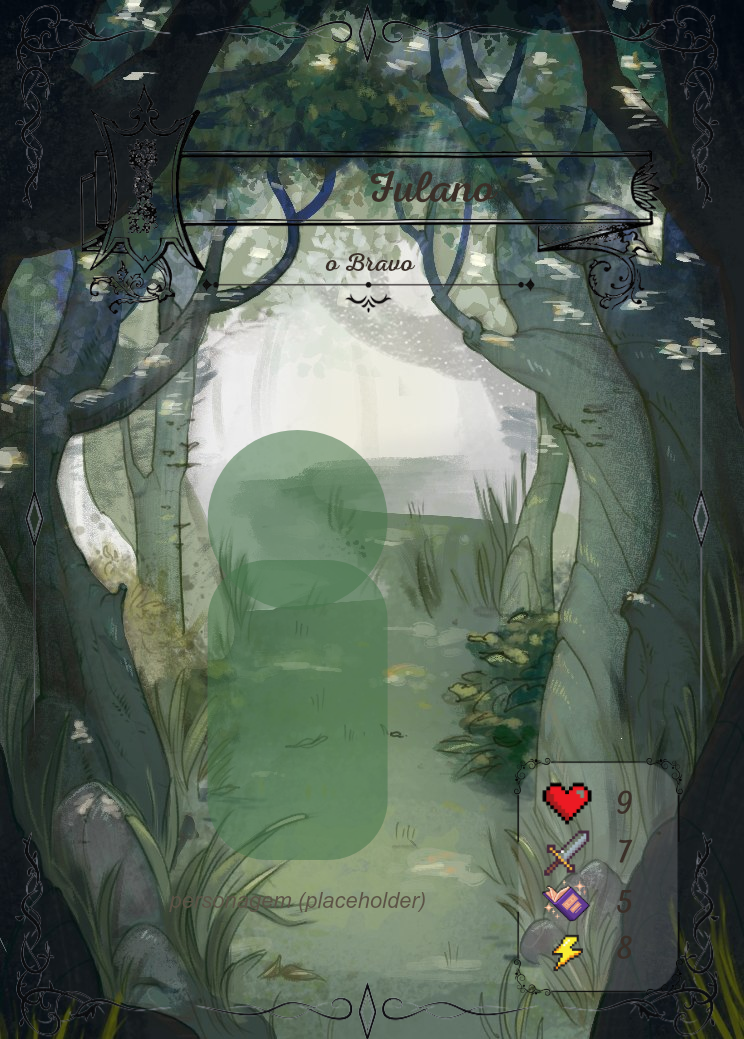
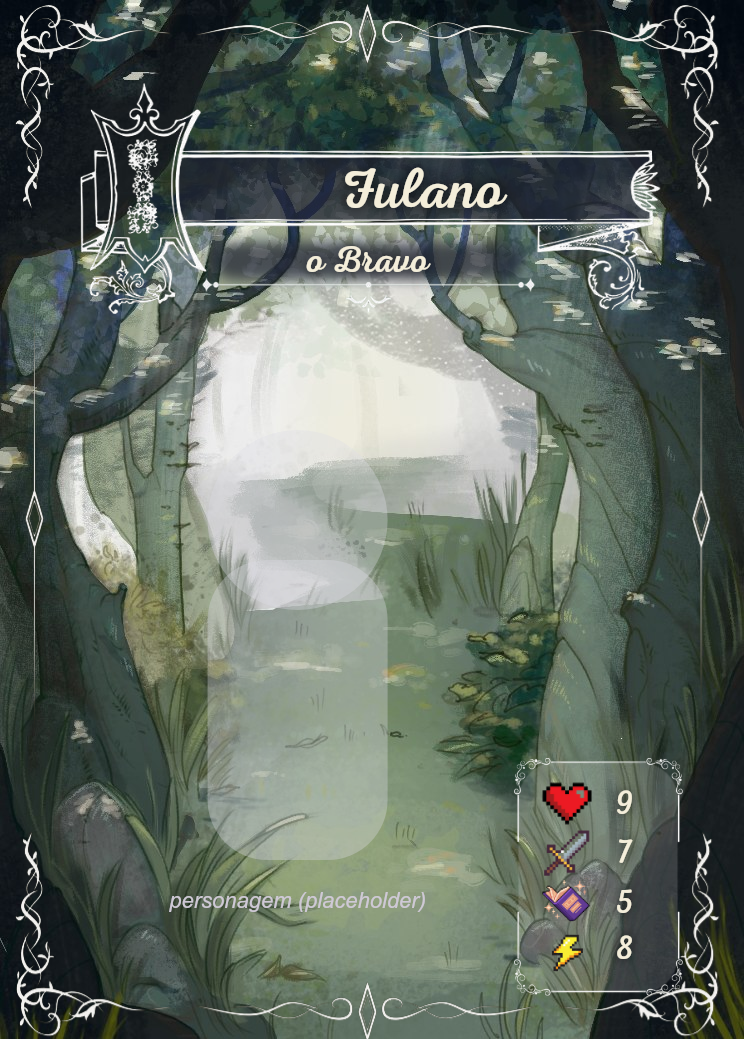
aumento no tamanho das cartas e sombreamento

diff --git a/src/lib/desenharCartaBrowser.ts b/src/lib/desenharCartaBrowser.ts
@@ -173,7 +173,9 @@ export async function desenharCarta(
   // No editor do participante NÃO é mostrada — a carta é surpresa.
   if (!mostrarMoldura) return;
 
-  const [nameFrame, statusPreench, statusFrame, borda] = await Promise.all([
+  const [namePreench, tituloPreench, nameFrame, statusPreench, statusFrame, borda] = await Promise.all([
+    carregarImagem(`/assets/carta/name-preench-${tema}.png`),
+    carregarImagem(`/assets/carta/titulo-preench-${tema}.png`),
     carregarImagem(`/assets/carta/name-${tema}.png`),
     carregarImagem("/assets/carta/status-preench.png"),
     carregarImagem(`/assets/carta/status-${tema}.png`),
@@ -182,7 +184,11 @@ export async function desenharCarta(
 
   const { assets, textos, preenchOpacidade, corTexto, corTextoClaro, sombraNoite } = layout;
 
-  // banner + linha de título (full-canvas, em 0,0)
+  // preenchimento do banner (semitransparente) + banner e linha de título (full-canvas, em 0,0)
+  ctx.globalAlpha = preenchOpacidade;
+  ctx.drawImage(namePreench, 0, 0, w, h);
+  if (dados.titulo) ctx.drawImage(tituloPreench, 0, 0, w, h);
+  ctx.globalAlpha = 1;
   ctx.drawImage(nameFrame, 0, 0, w, h);
 
   // status: preenchimento CENTRALIZADO na moldura + moldura

diff --git a/docs/11-carta-composicao.md b/docs/11-carta-composicao.md
@@ -16,7 +16,7 @@ Especificação exata de como montar a carta a partir dos assets em `Assets Fina
 | Borda p/ corte | `Bordas/Borda pra corte.png` | 744 × 1039 | guia de corte (só no PDF) |
 | **Verso** | `verso-carta.jpeg` | 745 × 1040 | verso da carta (usado só no PDF de impressão, ajustado a 744 × 1039) |
 | Name Frame | `Name Frame/Frames novos/Name Frame {Dia,Noite} Title 1.png` | **744 × 1039** | dia / noite · **full-canvas** (banner + linha de título), traço escuro/claro |
-| Name Frame Preench. | — (removido) | — | agora o preenchimento do nome é **gerado por código** (ver abaixo) |
+| Name Frame Preench. | `public/assets/carta/name-preench-{dia,noite}.png` | 744 × 1039 | miolo do banner novo (gerado a partir do contorno do frame; o `Name Frame Preenchimento.png` antigo era do banner antigo e não encaixa). Dia = creme, noite = escuro |
 | Status Frame | `Status Completo/Status dia.png` · `noite.png` | 169 × 240 | dia / noite (ícones embutidos) |
 | Status Preench. | `Status Completo/Preenchimento Status.png` | 160 × 231 | semitransparente |
 | Ícones de status | `Status/{Vida,Força,Intelecto,Velocidade}.png` | 125 × 125 | uso na UI do app (na carta já vêm no frame) |
@@ -38,11 +38,13 @@ Especificação exata de como montar a carta a partir dos assets em `Assets Fina
 
 ### Parte B — moldura da carta (overlay) · aplicada no preview e no export
 ```
+6.  Name Preenchimento [Dia|Noite]  (semitransparente, miolo do banner)
+6b. Título Preenchimento [Dia|Noite] (`titulo-preench-{tema}.png`, faixa de bordas suaves acima da linha do título)
 7.  Name Frame [Dia|Noite]   ← full-canvas em (0,0): banner + linha de título
 8.  Status Preenchimento     (semitransparente, centralizado no frame)
 9.  Status [Dia|Noite]
 10. Borda [Dia|Noite]
-11. Texto: Nome do personagem  (no banner; SEM preenchimento; cor acompanha o tema)
+11. Texto: Nome do personagem  (no banner, sobre o preenchimento; cor acompanha o tema)
 12. Texto: Título             (acima da linha de título; cor acompanha o tema)
 13. Textos: Status 1–4
 ```
@@ -67,15 +69,15 @@ Fonte da verdade das coordenadas: `src/lib/cartaLayout.json`.
 
 | Texto | X | Y | L | A | fontePx | cor |
 |-------|:-:|:-:|:-:|:-:|:-------:|-----|
-| Nome do personagem | 224 | 158 | 414 | 60 | 44 | **acompanha o tema** (escura no dia, clara na noite) |
-| Título | 205 | 246 | 330 | 34 | 26 | **acompanha o tema** (escura no dia, clara na noite) |
+| Nome do personagem | 204 | 157 | 436 | 64 | 56 | **acompanha o tema** (escura no dia, clara na noite) |
+| Título | 190 | 240 | 356 | 40 | 36 | **acompanha o tema** (escura no dia, clara na noite) |
 | Status 1 (Vida ❤) | 607 | 781 | 35 | 45 | 34 | escura |
 | Status 2 (Força ⚔) | 607 | 829 | 35 | 45 | 34 | escura |
 | Status 3 (Intelecto 📖) | 607 | 880 | 35 | 45 | 34 | escura |
 | Status 4 (Destreza ⚡) | 607 | 926 | 35 | 45 | 34 | escura |
 
 > Mapeamento Status 1–4 → Vida / Força / Intelecto / Destreza (ordem dos ícones no frame, cima → baixo) — ✅ confirmado. O participante **digita o nome** e **escolhe o título** entre os liberados (padrão "Recruta"); o **status é calculado** de animal+classe+itens (`lib/status.ts`). O app desenha os três na carta (fonte Adam Script). Cada status vai até 9 (1 dígito).
-> **Sem preenchimento** atrás do nome nem do título (decisão de design). Ambos ficam direto sobre a ribbon/cenário, então a **cor acompanha o tema** (`corTexto` no dia, `corTextoClaro` na noite) para manter a legibilidade.
+> **Preenchimento atrás do nome** (desde 16/11/2026, após o 1º teste de impressão: nome e título ficaram pequenos e o nome sumia no cenário): o miolo do banner recebe `name-preench-{tema}.png` com `preenchOpacidade` — creme no dia, escuro na noite — e as fontes subiram (nome 44→56, título 26→36). O **título** ganhou uma faixa suave (`titulo-preench-{tema}.png`, mesma opacidade) acima da linha; a **cor acompanha o tema** (`corTexto` no dia, `corTextoClaro` + sombra na noite). Textos longos são comprimidos para caber na largura da caixa.
 
 > ✅ **Calibrado com os cenários reais (11/2026):** na moldura de **noite** (Floresta), nome, título e números de status são **claros com sombra escura** (`sombraNoite` em `cartaLayout.json`); na de **dia** (Montanhas), escuros sem sombra. Ver ADR-020.
 
